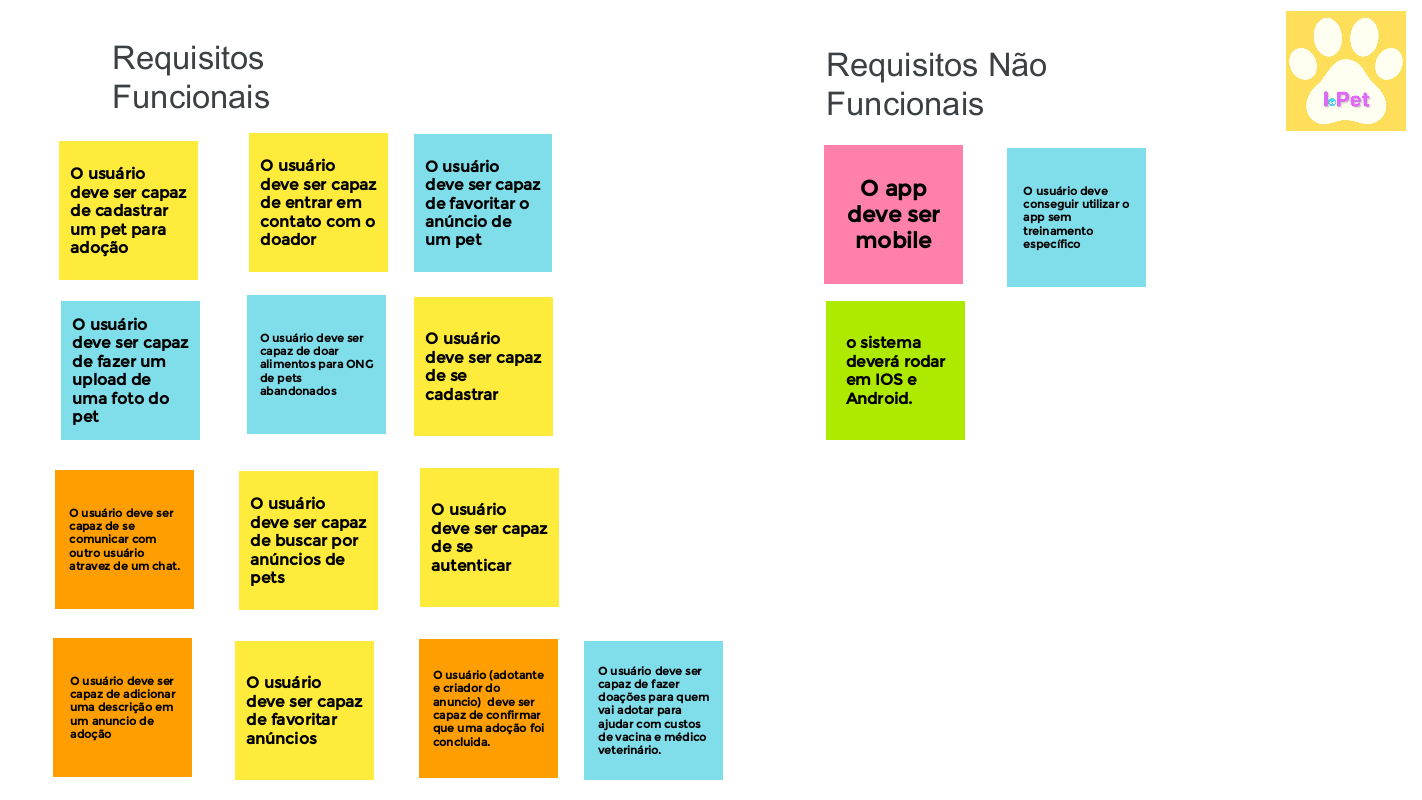
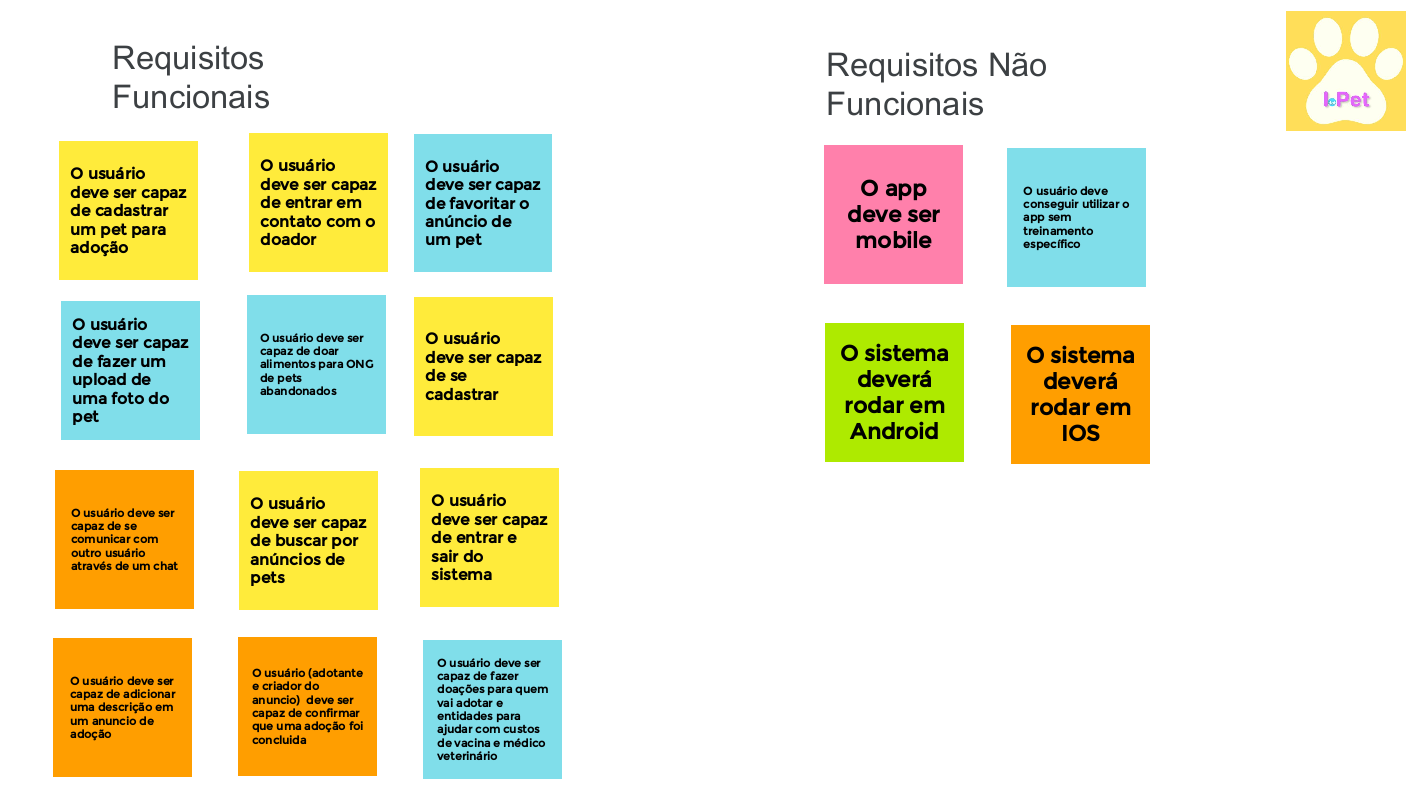
#76-adição-rastreabilidade

diff --git a/docs/modelagem/backlog.md b/docs/modelagem/backlog.md
@@ -78,38 +78,38 @@ No presente documento, o backlog do produto seguirá a hierarquia exposto na Fig
 
 |  ID  | Épico | Funcionalidade | História de usuário | MoSCoW | Rastreabilidade |
 | :--: | :---: | :------------: | :----- | :--: | :--: |
-| US01 |  E01  | F01 | Eu, como usuário adodante, desejo me cadastrar no sistema com meu e-mail, para usurfruir do sistema | | [BS06](https://github.com/UnBArqDsw2022-2/2022.2_G4_IDotPet/blob/master/docs/base/brainstorm.md) |
-| US02 |  E01  | F01 | Eu, como usuário anunciante, desejo me cadastrar no sistema com meu e-mail ou instituição, para me associar a conta  | | [BS06](https://github.com/UnBArqDsw2022-2/2022.2_G4_IDotPet/blob/master/docs/base/brainstorm.md) e [IN07](https://github.com/UnBArqDsw2022-2/2022.2_G4_IDotPet/blob/master/docs/base/introspeccao.md)|
-| US03 |  E01  | F01 | Eu, como usuário adotante, desejo me cadastrar no sistema com contas de redes sociais, para facilitar o cadastro  | | [BS06](https://github.com/UnBArqDsw2022-2/2022.2_G4_IDotPet/blob/master/docs/base/brainstorm.md)|
-| US04 |  E01  | F02 | Eu, como usuário adotante, desejo entrar (logar) no sistema com meu e-mail e senha, para manter minha conta privada  | | [BS09](https://github.com/UnBArqDsw2022-2/2022.2_G4_IDotPet/blob/master/docs/base/brainstorm.md)|
-| US05 |  E01  | F02 | Eu, como usuário anunciante, desejo entrar (logar) no sistema com meu e-mail e senha, para manter minha conta privada   | | [BS09](https://github.com/UnBArqDsw2022-2/2022.2_G4_IDotPet/blob/master/docs/base/brainstorm.md)|
-| US06 |  E01  | F02 | Eu, como usuário adotante, desejo entrar (logar) no sistema com contas de redes sociais, para facilitar o login    | | [BS09](https://github.com/UnBArqDsw2022-2/2022.2_G4_IDotPet/blob/master/docs/base/brainstorm.md)|
-| US07 |  E01  | F02 | Eu, como usuário anunciante, desejo entrar (logar) no sistema com contas de redes sociais, para facilitar o login   | | [BS09](https://github.com/UnBArqDsw2022-2/2022.2_G4_IDotPet/blob/master/docs/base/brainstorm.md)|
-| US08 |  E01  | F03 | Eu, como usuário adotante, desejo sair (deslogar) minha conta com um botão, facilitando minha saida do sistema    | | [BS09](https://github.com/UnBArqDsw2022-2/2022.2_G4_IDotPet/blob/master/docs/base/brainstorm.md)|
-| US09 |  E01  | F03 | Eu, como usuário anunciante, desejo sair (deslogar) minha conta com um botão, facilitando minha saida do sistema   | | [BS09](https://github.com/UnBArqDsw2022-2/2022.2_G4_IDotPet/blob/master/docs/base/brainstorm.md)|
-| US10 |  E02  | F04 | Eu, como usuário adotante, desejo visualizar meu perfil, para verificar meus dados    | | [BS16](https://github.com/UnBArqDsw2022-2/2022.2_G4_IDotPet/blob/master/docs/base/brainstorm.md) e [BS17](https://github.com/UnBArqDsw2022-2/2022.2_G4_IDotPet/blob/master/docs/base/brainstorm.md)|
-| US11 |  E02  | F04 | Eu, como usuário anunciante, desejo visualizar meu perfil, verificar meus dados    | | [BS16](https://github.com/UnBArqDsw2022-2/2022.2_G4_IDotPet/blob/master/docs/base/brainstorm.md) e [BS17](https://github.com/UnBArqDsw2022-2/2022.2_G4_IDotPet/blob/master/docs/base/brainstorm.md)|
-| US12 |  E02  | F05 | Eu, como usuário adotante, desejo alterar informações do meu perfil, para corrigir meus dados   | | [BS18](https://github.com/UnBArqDsw2022-2/2022.2_G4_IDotPet/blob/master/docs/base/brainstorm.md)|
-| US13 |  E02  | F05 | Eu, como usuário anunciante, desejo alterar informações do meu perfil, para corrigir meus dados   | | [BS18](https://github.com/UnBArqDsw2022-2/2022.2_G4_IDotPet/blob/master/docs/base/brainstorm.md)|
-| US14 |  E03  | F06 | Eu, como usuário adotante, desejo enviar uma mensagem para o usuário anunciante, para me comunicar com o anunciante   | | [BS02](https://github.com/UnBArqDsw2022-2/2022.2_G4_IDotPet/blob/master/docs/base/brainstorm.md), [BS07](https://github.com/UnBArqDsw2022-2/2022.2_G4_IDotPet/blob/master/docs/base/brainstorm.md) e [IN03](https://github.com/UnBArqDsw2022-2/2022.2_G4_IDotPet/blob/master/docs/base/introspeccao.md)|
-| US15 |  E03  | F07 | Eu, como usuário anunciante, desejo enviar uma mensagem para o usuário adotante, para me comunicar com o adotante  | | [BS02](https://github.com/UnBArqDsw2022-2/2022.2_G4_IDotPet/blob/master/docs/base/brainstorm.md), [BS07](https://github.com/UnBArqDsw2022-2/2022.2_G4_IDotPet/blob/master/docs/base/brainstorm.md) e [IN03](https://github.com/UnBArqDsw2022-2/2022.2_G4_IDotPet/blob/master/docs/base/introspeccao.md)|
-| US16 |  E04  | F08 | Eu, como usuário adotante, desejo visualizar o anúncio do pet, para escolher um pet  | | [BS19](https://github.com/UnBArqDsw2022-2/2022.2_G4_IDotPet/blob/master/docs/base/brainstorm.md)|
-| US17 |  E04  | F08 | Eu, como usuário adotante, desejo visualizar as perfil/informações do pet, para conhecer o pet   | | [BS19](https://github.com/UnBArqDsw2022-2/2022.2_G4_IDotPet/blob/master/docs/base/brainstorm.md)|
-| US18 |  E05  | F09 | Eu, como usuário anunciante, desejo adicionar ou editar o anúncio do pet, para adicionar um novo anúncio ou corrigir os dados  | | [BS01](https://github.com/UnBArqDsw2022-2/2022.2_G4_IDotPet/blob/master/docs/base/brainstorm.md), [BS04](https://github.com/UnBArqDsw2022-2/2022.2_G4_IDotPet/blob/master/docs/base/brainstorm.md), [BS10](https://github.com/UnBArqDsw2022-2/2022.2_G4_IDotPet/blob/master/docs/base/brainstorm.md) e [IN01](https://github.com/UnBArqDsw2022-2/2022.2_G4_IDotPet/blob/master/docs/base/introspeccao.md)|
-| US19 |  E05  | F09 | Eu, como usuário anunciante, desejo adicionar ou editar o perfil/informações do pet, para corrigir os dados do pet   | | [BS04](https://github.com/UnBArqDsw2022-2/2022.2_G4_IDotPet/blob/master/docs/base/brainstorm.md) e [BS10](https://github.com/UnBArqDsw2022-2/2022.2_G4_IDotPet/blob/master/docs/base/brainstorm.md) |
-| US20 |  E06  | F10 | Eu, como usuário adotante, desejo saber como realizar uma adoção, sobre como o aplicativo funciona e da importância de uma adoção, para entender como usar o aplicativo | | [BS20](https://github.com/UnBArqDsw2022-2/2022.2_G4_IDotPet/blob/master/docs/base/brainstorm.md), [BS21](https://github.com/UnBArqDsw2022-2/2022.2_G4_IDotPet/blob/master/docs/base/brainstorm.md) e [BS22](https://github.com/UnBArqDsw2022-2/2022.2_G4_IDotPet/blob/master/docs/base/brainstorm.md)|
-| US21 |  E06  | F10 | Eu, como usuário anunciante, desejo saber como anunciar uma adoção, sobre como o aplicativo funciona e da importância de uma adoção, para entender como usar o aplicativo | | [BS20](https://github.com/UnBArqDsw2022-2/2022.2_G4_IDotPet/blob/master/docs/base/brainstorm.md), [BS21](https://github.com/UnBArqDsw2022-2/2022.2_G4_IDotPet/blob/master/docs/base/brainstorm.md) e [BS22](https://github.com/UnBArqDsw2022-2/2022.2_G4_IDotPet/blob/master/docs/base/brainstorm.md)| 
-| US22 |  E06  | F11 | Eu, como usuário adotante, desejo filtrar os anúncios de pets por tipo (cachorro, gato e etc), para para facilitar a escolha de um pet  | | [BS08](https://github.com/UnBArqDsw2022-2/2022.2_G4_IDotPet/blob/master/docs/base/brainstorm.md), [IN02](https://github.com/UnBArqDsw2022-2/2022.2_G4_IDotPet/blob/master/docs/base/introspeccao.md) e [IN05](https://github.com/UnBArqDsw2022-2/2022.2_G4_IDotPet/blob/master/docs/base/introspeccao.md)|
-| US23 |  E06  | F11 | Eu, como usuário adotante, desejo filtrar os anúncios de pets pelo localização do animal, para facilitar a escolha de um pet   | | [BS08](https://github.com/UnBArqDsw2022-2/2022.2_G4_IDotPet/blob/master/docs/base/brainstorm.md), [IN02](https://github.com/UnBArqDsw2022-2/2022.2_G4_IDotPet/blob/master/docs/base/introspeccao.md) e [IN05](https://github.com/UnBArqDsw2022-2/2022.2_G4_IDotPet/blob/master/docs/base/introspeccao.md)|
-| US24 |  E06  | F11 | Eu, como usuário adotante, desejo filtrar os anúncios de pets por data do anúncio, para facilitar a escolha de um pet   | | [BS08](https://github.com/UnBArqDsw2022-2/2022.2_G4_IDotPet/blob/master/docs/base/brainstorm.md), [IN02](https://github.com/UnBArqDsw2022-2/2022.2_G4_IDotPet/blob/master/docs/base/introspeccao.md) e [IN05](https://github.com/UnBArqDsw2022-2/2022.2_G4_IDotPet/blob/master/docs/base/introspeccao.md)|
-| US25 |  E06  | F12 | Eu, como usuário adotante, desejo compartilhar o anúncio do pet, para aumentar a visibilidade do aplicativo  | | [BS23](https://github.com/UnBArqDsw2022-2/2022.2_G4_IDotPet/blob/master/docs/base/brainstorm.md) e [IN06](https://github.com/UnBArqDsw2022-2/2022.2_G4_IDotPet/blob/master/docs/base/introspeccao.md)|
-| US26 |  E06  | F12 | Eu, como usuário anunciante, desejo compartilhar o anúncio do pet, para aumentar a visibilidade do aplicativo  | | [BS23](https://github.com/UnBArqDsw2022-2/2022.2_G4_IDotPet/blob/master/docs/base/brainstorm.md) e [IN06](https://github.com/UnBArqDsw2022-2/2022.2_G4_IDotPet/blob/master/docs/base/introspeccao.md)|
-| US27 |  E06  | F13 | Eu, como usuário adotante, desejo adotar um pet de um usuário anunciante, para realizar o propósito do aplicativo | | [BS11](https://github.com/UnBArqDsw2022-2/2022.2_G4_IDotPet/blob/master/docs/base/brainstorm.md) |
-| US28 |  E07  | F14 | Eu, como mantenedor do sistema, devo ser capaz de gerenciar publicações que não estão de acordo com as regras da comunidade, para garantir que não tenham publicações que fogem dos valores da comunidade  | | [BS24](https://github.com/UnBArqDsw2022-2/2022.2_G4_IDotPet/blob/master/docs/base/brainstorm.md)|
-| US29 |  E07  | F15 | Eu, como mantenedor do sistema, devo ser capaz de gerenciar usuários que não estão seguindo as regras da comunidade, para garantir que não tenham usuários maliciosos  | | [BS24](https://github.com/UnBArqDsw2022-2/2022.2_G4_IDotPet/blob/master/docs/base/brainstorm.md)|
-| US30 |  E06  | F16 | Eu, como usuário adotante, desejo favoritar o anúncio de um pet, para ter acesso aos meus interesses rapidamente | | [BS03](https://github.com/UnBArqDsw2022-2/2022.2_G4_IDotPet/blob/master/docs/base/brainstorm.md) e [IN07](https://github.com/UnBArqDsw2022-2/2022.2_G4_IDotPet/blob/master/docs/base/introspeccao.md)|
-| US31 |  E08  | F17 | Eu, como usuário voluntário, desejo doar recursos para um usuário adotante, para fornecer condições necessárias para a adoção e apoio dos pets | | [BS12](https://github.com/UnBArqDsw2022-2/2022.2_G4_IDotPet/blob/master/docs/base/brainstorm.md) e [IN04](https://github.com/UnBArqDsw2022-2/2022.2_G4_IDotPet/blob/master/docs/base/introspeccao.md)
-| US32 |  E08  | F17 | Eu, como usuário voluntário, desejo doar recursos para um usuário anunciante, para fornecer condições necessárias para o pet até sua adoção | | [BS12](https://github.com/UnBArqDsw2022-2/2022.2_G4_IDotPet/blob/master/docs/base/brainstorm.md) e [IN04](https://github.com/UnBArqDsw2022-2/2022.2_G4_IDotPet/blob/master/docs/base/introspeccao.md)|
+| US01 |  E01  | F01 | Eu, como usuário adodante, desejo me cadastrar no sistema com meu e-mail, para usurfruir do sistema | M | [BS06](https://github.com/UnBArqDsw2022-2/2022.2_G4_IDotPet/blob/master/docs/base/brainstorm.md) |
+| US02 |  E01  | F01 | Eu, como usuário anunciante, desejo me cadastrar no sistema com meu e-mail ou instituição, para me associar a conta  | M | [BS06](https://github.com/UnBArqDsw2022-2/2022.2_G4_IDotPet/blob/master/docs/base/brainstorm.md) e [IN07](https://github.com/UnBArqDsw2022-2/2022.2_G4_IDotPet/blob/master/docs/base/introspeccao.md)|
+| US03 |  E01  | F01 | Eu, como usuário adotante, desejo me cadastrar no sistema com contas de redes sociais, para facilitar o cadastro  | C | [BS06](https://github.com/UnBArqDsw2022-2/2022.2_G4_IDotPet/blob/master/docs/base/brainstorm.md)|
+| US04 |  E01  | F02 | Eu, como usuário adotante, desejo entrar (logar) no sistema com meu e-mail e senha, para manter minha conta privada  | M | [BS09](https://github.com/UnBArqDsw2022-2/2022.2_G4_IDotPet/blob/master/docs/base/brainstorm.md)|
+| US05 |  E01  | F02 | Eu, como usuário anunciante, desejo entrar (logar) no sistema com meu e-mail e senha, para manter minha conta privada   | M | [BS09](https://github.com/UnBArqDsw2022-2/2022.2_G4_IDotPet/blob/master/docs/base/brainstorm.md)|
+| US06 |  E01  | F02 | Eu, como usuário adotante, desejo entrar (logar) no sistema com contas de redes sociais, para facilitar o login    | C | [BS09](https://github.com/UnBArqDsw2022-2/2022.2_G4_IDotPet/blob/master/docs/base/brainstorm.md)|
+| US07 |  E01  | F02 | Eu, como usuário anunciante, desejo entrar (logar) no sistema com contas de redes sociais, para facilitar o login   | C | [BS09](https://github.com/UnBArqDsw2022-2/2022.2_G4_IDotPet/blob/master/docs/base/brainstorm.md)|
+| US08 |  E01  | F03 | Eu, como usuário adotante, desejo sair (deslogar) minha conta com um botão, facilitando minha saida do sistema    | M | [BS09](https://github.com/UnBArqDsw2022-2/2022.2_G4_IDotPet/blob/master/docs/base/brainstorm.md)|
+| US09 |  E01  | F03 | Eu, como usuário anunciante, desejo sair (deslogar) minha conta com um botão, facilitando minha saida do sistema   | M | [BS09](https://github.com/UnBArqDsw2022-2/2022.2_G4_IDotPet/blob/master/docs/base/brainstorm.md)|
+| US10 |  E02  | F04 | Eu, como usuário adotante, desejo visualizar meu perfil, para verificar meus dados    | S | [BS16](https://github.com/UnBArqDsw2022-2/2022.2_G4_IDotPet/blob/master/docs/base/brainstorm.md) e [BS17](https://github.com/UnBArqDsw2022-2/2022.2_G4_IDotPet/blob/master/docs/base/brainstorm.md)|
+| US11 |  E02  | F04 | Eu, como usuário anunciante, desejo visualizar meu perfil, verificar meus dados    | S | [BS16](https://github.com/UnBArqDsw2022-2/2022.2_G4_IDotPet/blob/master/docs/base/brainstorm.md) e [BS17](https://github.com/UnBArqDsw2022-2/2022.2_G4_IDotPet/blob/master/docs/base/brainstorm.md)|
+| US12 |  E02  | F05 | Eu, como usuário adotante, desejo alterar informações do meu perfil, para corrigir meus dados   | M | [BS18](https://github.com/UnBArqDsw2022-2/2022.2_G4_IDotPet/blob/master/docs/base/brainstorm.md)|
+| US13 |  E02  | F05 | Eu, como usuário anunciante, desejo alterar informações do meu perfil, para corrigir meus dados   | M | [BS18](https://github.com/UnBArqDsw2022-2/2022.2_G4_IDotPet/blob/master/docs/base/brainstorm.md)|
+| US14 |  E03  | F06 | Eu, como usuário adotante, desejo enviar uma mensagem para o usuário anunciante, para me comunicar com o anunciante   | M | [BS02](https://github.com/UnBArqDsw2022-2/2022.2_G4_IDotPet/blob/master/docs/base/brainstorm.md), [BS07](https://github.com/UnBArqDsw2022-2/2022.2_G4_IDotPet/blob/master/docs/base/brainstorm.md) e [IN03](https://github.com/UnBArqDsw2022-2/2022.2_G4_IDotPet/blob/master/docs/base/introspeccao.md)|
+| US15 |  E03  | F07 | Eu, como usuário anunciante, desejo enviar uma mensagem para o usuário adotante, para me comunicar com o adotante  | M | [BS02](https://github.com/UnBArqDsw2022-2/2022.2_G4_IDotPet/blob/master/docs/base/brainstorm.md), [BS07](https://github.com/UnBArqDsw2022-2/2022.2_G4_IDotPet/blob/master/docs/base/brainstorm.md) e [IN03](https://github.com/UnBArqDsw2022-2/2022.2_G4_IDotPet/blob/master/docs/base/introspeccao.md)|
+| US16 |  E04  | F08 | Eu, como usuário adotante, desejo visualizar o anúncio do pet, para escolher um pet  | M | [BS19](https://github.com/UnBArqDsw2022-2/2022.2_G4_IDotPet/blob/master/docs/base/brainstorm.md)|
+| US17 |  E04  | F08 | Eu, como usuário adotante, desejo visualizar as perfil/informações do pet, para conhecer o pet   | S | [BS19](https://github.com/UnBArqDsw2022-2/2022.2_G4_IDotPet/blob/master/docs/base/brainstorm.md)|
+| US18 |  E05  | F09 | Eu, como usuário anunciante, desejo adicionar ou editar o anúncio do pet, para adicionar um novo anúncio ou corrigir os dados  | M | [BS01](https://github.com/UnBArqDsw2022-2/2022.2_G4_IDotPet/blob/master/docs/base/brainstorm.md), [BS04](https://github.com/UnBArqDsw2022-2/2022.2_G4_IDotPet/blob/master/docs/base/brainstorm.md), [BS10](https://github.com/UnBArqDsw2022-2/2022.2_G4_IDotPet/blob/master/docs/base/brainstorm.md) e [IN01](https://github.com/UnBArqDsw2022-2/2022.2_G4_IDotPet/blob/master/docs/base/introspeccao.md)|
+| US19 |  E05  | F09 | Eu, como usuário anunciante, desejo adicionar ou editar o perfil/informações do pet, para corrigir os dados do pet   | S | [BS04](https://github.com/UnBArqDsw2022-2/2022.2_G4_IDotPet/blob/master/docs/base/brainstorm.md) e [BS10](https://github.com/UnBArqDsw2022-2/2022.2_G4_IDotPet/blob/master/docs/base/brainstorm.md) |
+| US20 |  E06  | F10 | Eu, como usuário adotante, desejo saber como realizar uma adoção, sobre como o aplicativo funciona e da importância de uma adoção, para entender como usar o aplicativo | C | [BS20](https://github.com/UnBArqDsw2022-2/2022.2_G4_IDotPet/blob/master/docs/base/brainstorm.md), [BS21](https://github.com/UnBArqDsw2022-2/2022.2_G4_IDotPet/blob/master/docs/base/brainstorm.md) e [BS22](https://github.com/UnBArqDsw2022-2/2022.2_G4_IDotPet/blob/master/docs/base/brainstorm.md)|
+| US21 |  E06  | F10 | Eu, como usuário anunciante, desejo saber como anunciar uma adoção, sobre como o aplicativo funciona e da importância de uma adoção, para entender como usar o aplicativo | C | [BS20](https://github.com/UnBArqDsw2022-2/2022.2_G4_IDotPet/blob/master/docs/base/brainstorm.md), [BS21](https://github.com/UnBArqDsw2022-2/2022.2_G4_IDotPet/blob/master/docs/base/brainstorm.md) e [BS22](https://github.com/UnBArqDsw2022-2/2022.2_G4_IDotPet/blob/master/docs/base/brainstorm.md)| 
+| US22 |  E06  | F11 | Eu, como usuário adotante, desejo filtrar os anúncios de pets por tipo (cachorro, gato e etc), para para facilitar a escolha de um pet  | S | [BS08](https://github.com/UnBArqDsw2022-2/2022.2_G4_IDotPet/blob/master/docs/base/brainstorm.md), [IN02](https://github.com/UnBArqDsw2022-2/2022.2_G4_IDotPet/blob/master/docs/base/introspeccao.md) e [IN05](https://github.com/UnBArqDsw2022-2/2022.2_G4_IDotPet/blob/master/docs/base/introspeccao.md)|
+| US23 |  E06  | F11 | Eu, como usuário adotante, desejo filtrar os anúncios de pets pelo localização do animal, para facilitar a escolha de um pet   | S | [BS08](https://github.com/UnBArqDsw2022-2/2022.2_G4_IDotPet/blob/master/docs/base/brainstorm.md), [IN02](https://github.com/UnBArqDsw2022-2/2022.2_G4_IDotPet/blob/master/docs/base/introspeccao.md) e [IN05](https://github.com/UnBArqDsw2022-2/2022.2_G4_IDotPet/blob/master/docs/base/introspeccao.md)|
+| US24 |  E06  | F11 | Eu, como usuário adotante, desejo filtrar os anúncios de pets por data do anúncio, para facilitar a escolha de um pet   | S | [BS08](https://github.com/UnBArqDsw2022-2/2022.2_G4_IDotPet/blob/master/docs/base/brainstorm.md), [IN02](https://github.com/UnBArqDsw2022-2/2022.2_G4_IDotPet/blob/master/docs/base/introspeccao.md) e [IN05](https://github.com/UnBArqDsw2022-2/2022.2_G4_IDotPet/blob/master/docs/base/introspeccao.md)|
+| US25 |  E06  | F12 | Eu, como usuário adotante, desejo compartilhar o anúncio do pet, para aumentar a visibilidade do aplicativo  | C | [BS23](https://github.com/UnBArqDsw2022-2/2022.2_G4_IDotPet/blob/master/docs/base/brainstorm.md) e [IN06](https://github.com/UnBArqDsw2022-2/2022.2_G4_IDotPet/blob/master/docs/base/introspeccao.md)|
+| US26 |  E06  | F12 | Eu, como usuário anunciante, desejo compartilhar o anúncio do pet, para aumentar a visibilidade do aplicativo  | C | [BS23](https://github.com/UnBArqDsw2022-2/2022.2_G4_IDotPet/blob/master/docs/base/brainstorm.md) e [IN06](https://github.com/UnBArqDsw2022-2/2022.2_G4_IDotPet/blob/master/docs/base/introspeccao.md)|
+| US27 |  E06  | F13 | Eu, como usuário adotante, desejo adotar um pet de um usuário anunciante, para realizar o propósito do aplicativo | M | [BS11](https://github.com/UnBArqDsw2022-2/2022.2_G4_IDotPet/blob/master/docs/base/brainstorm.md) |
+| US28 |  E07  | F14 | Eu, como mantenedor do sistema, devo ser capaz de gerenciar publicações que não estão de acordo com as regras da comunidade, para garantir que não tenham publicações que fogem dos valores da comunidade  | M | [BS24](https://github.com/UnBArqDsw2022-2/2022.2_G4_IDotPet/blob/master/docs/base/brainstorm.md)|
+| US29 |  E07  | F15 | Eu, como mantenedor do sistema, devo ser capaz de gerenciar usuários que não estão seguindo as regras da comunidade, para garantir que não tenham usuários maliciosos  | M | [BS24](https://github.com/UnBArqDsw2022-2/2022.2_G4_IDotPet/blob/master/docs/base/brainstorm.md)|
+| US30 |  E06  | F16 | Eu, como usuário adotante, desejo favoritar o anúncio de um pet, para ter acesso aos meus interesses rapidamente | C | [BS03](https://github.com/UnBArqDsw2022-2/2022.2_G4_IDotPet/blob/master/docs/base/brainstorm.md) e [IN07](https://github.com/UnBArqDsw2022-2/2022.2_G4_IDotPet/blob/master/docs/base/introspeccao.md)|
+| US31 |  E08  | F17 | Eu, como usuário voluntário, desejo doar recursos para um usuário adotante, para fornecer condições necessárias para a adoção e apoio dos pets | C | [BS12](https://github.com/UnBArqDsw2022-2/2022.2_G4_IDotPet/blob/master/docs/base/brainstorm.md) e [IN04](https://github.com/UnBArqDsw2022-2/2022.2_G4_IDotPet/blob/master/docs/base/introspeccao.md)
+| US32 |  E08  | F17 | Eu, como usuário voluntário, desejo doar recursos para um usuário anunciante, para fornecer condições necessárias para o pet até sua adoção | C | [BS12](https://github.com/UnBArqDsw2022-2/2022.2_G4_IDotPet/blob/master/docs/base/brainstorm.md) e [IN04](https://github.com/UnBArqDsw2022-2/2022.2_G4_IDotPet/blob/master/docs/base/introspeccao.md)|
 ### Tarefas
 
 | Épico | Funcionalidade | História de Usuário | Tarefas |
@@ -133,9 +133,10 @@ No presente documento, o backlog do produto seguirá a hierarquia exposto na Fig
 
 | ID | Descrição | Tipo de requisito | MoSCoW | Rastreabilidade |
 |:-: | :- | :-: | :--: | :--: |
-| BS13 | O app deve ser mobile | RNF |  | [BS13](https://github.com/UnBArqDsw2022-2/2022.2_G4_IDotPet/blob/master/docs/base/brainstorm.md) |
-| BS14 | O usuário deve conseguir utilizar o app sem treinamento específico | RNF |  | [BS14](https://github.com/UnBArqDsw2022-2/2022.2_G4_IDotPet/blob/master/docs/base/brainstorm.md) |
-| BS15 | O sistema deverá rodar em IOS e Android | RNF |  | [BS15](https://github.com/UnBArqDsw2022-2/2022.2_G4_IDotPet/blob/master/docs/base/brainstorm.md) |
+| BS13 | O app deve ser mobile | RNF |  M | [BS13](https://github.com/UnBArqDsw2022-2/2022.2_G4_IDotPet/blob/master/docs/base/brainstorm.md) |
+| BS14 | O usuário deve conseguir utilizar o app sem treinamento específico | RNF | C | [BS14](https://github.com/UnBArqDsw2022-2/2022.2_G4_IDotPet/blob/master/docs/base/brainstorm.md) |
+| BS15 | O sistema deverá rodar em Android | RNF | M | [BS15](https://github.com/UnBArqDsw2022-2/2022.2_G4_IDotPet/blob/master/docs/base/brainstorm.md) |
+| BS16 | O sistema deverá rodar em IOS | RNF | S | [BS15](https://github.com/UnBArqDsw2022-2/2022.2_G4_IDotPet/blob/master/docs/base/brainstorm.md) |
 
 ### Referências
 

diff --git a/docs/base/brainstorm.md b/docs/base/brainstorm.md
@@ -59,7 +59,8 @@ Posteriormente realizamos outro brainstorm para levantar mais requisitos e refin
 | BS12 | O usuário deve ser capaz de fazer doações para quem vai adotar e entidades para ajudar com custos de vacina e médico veterinário | RF | 
 | BS13 | O app deve ser mobile | RNF |
 | BS14 | O usuário deve conseguir utilizar o app sem treinamento específico | RNF |
-| BS15 | O sistema deverá rodar em IOS e Android | RNF |
+| BS15 | O sistema deverá rodar em Android | RNF |
+| BS16 | O sistema deverá rodar em IOS | RNF |
 
 #### Segundo levantamento de Requisitos Funcionais e Não Funcionais
 
